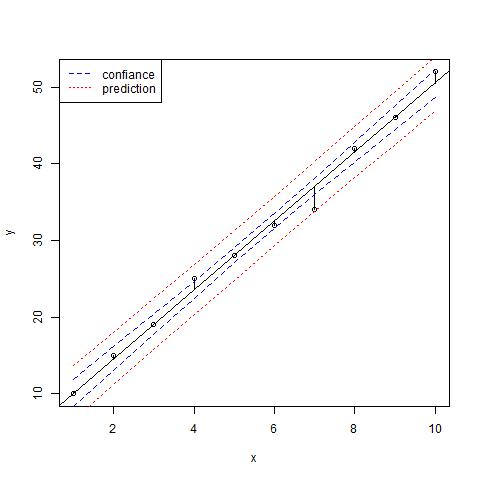
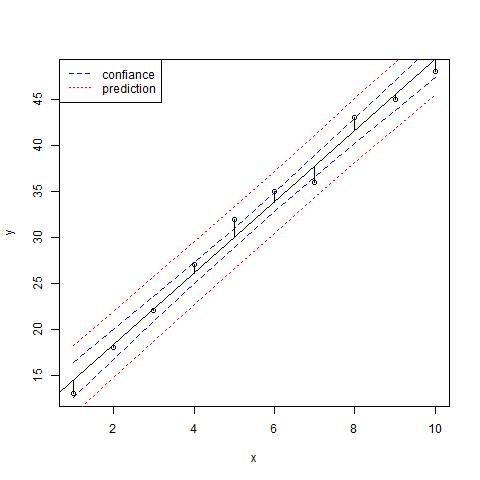
Ajout classes Mle2 et Mle5. Ajout scripts R

diff --git a/src/main/java/com/test/Mle5.java b/src/main/java/com/test/Mle5.java
@@ -1,0 +1,39 @@
+package com.test;
+
+import java.io.IOException;
+
+public class Mle5 extends Thread{
+	
+public Temoin temoin;
+	
+	public Mle5 (Temoin temoin)  {
+		
+		this.temoin = temoin;
+	}
+	
+	
+	public void run(){
+		
+		synchronized (this.temoin) {
+			
+			try {
+				
+				System.out.println("Thread R en cours");
+				Runtime.getRuntime().exec("Rscript MLE5.r");
+			} catch (IOException e) {
+				// TODO Auto-generated catch block
+				e.printStackTrace();
+			}
+			try {
+				sleep(500);
+			} catch (InterruptedException e) {
+				// TODO Auto-generated catch block
+				e.printStackTrace();
+			}
+			System.out.println("FIN Thread R");
+		}
+		
+	}
+
+
+}

diff --git a/src/main/java/com/test/Mle2.java b/src/main/java/com/test/Mle2.java
@@ -1,0 +1,38 @@
+package com.test;
+
+import java.io.IOException;
+
+public class Mle2 extends Thread{
+	
+public Temoin temoin;
+	
+	public Mle2 (Temoin temoin)  {
+		
+		this.temoin = temoin;
+	}
+	
+	
+	public void run(){
+		
+		synchronized (this.temoin) {
+			
+			try {
+				
+				System.out.println("Thread R en cours");
+				Runtime.getRuntime().exec("Rscript MLE2.r");
+			} catch (IOException e) {
+				// TODO Auto-generated catch block
+				e.printStackTrace();
+			}
+			try {
+				sleep(500);
+			} catch (InterruptedException e) {
+				// TODO Auto-generated catch block
+				e.printStackTrace();
+			}
+			System.out.println("FIN Thread R");
+		}
+		
+	}
+
+}

diff --git a/src/main/java/com/test/RTest6.java b/src/main/java/com/test/RTest6.java
@@ -17,12 +17,14 @@ public class RTest6 {
 		
 		
 		Temoin temoin = new Temoin();
-		Regression regression = new Regression(temoin);
+		//Regression regression = new Regression(temoin);
 		//Analyse analyse = new Analyse(temoin);
-		
+		//Mle2 mle2 = new Mle2(temoin);
+		Mle5 mle5 = new Mle5(temoin);
 		//new Thread(regression).start();
 		//new Thread(analyse).start();
-		Thread t1 = new Thread(regression);
+		//Thread t1 = new Thread(regression);
+		Thread t1 = new Thread(mle5);
 		t1.start();
 		//Thread t2 = new Thread(analyse);
 		
